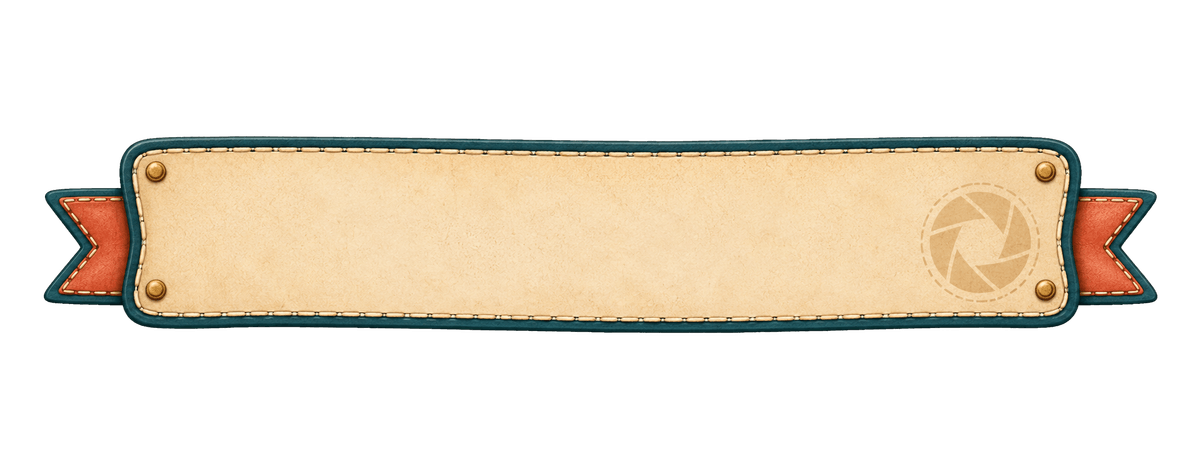
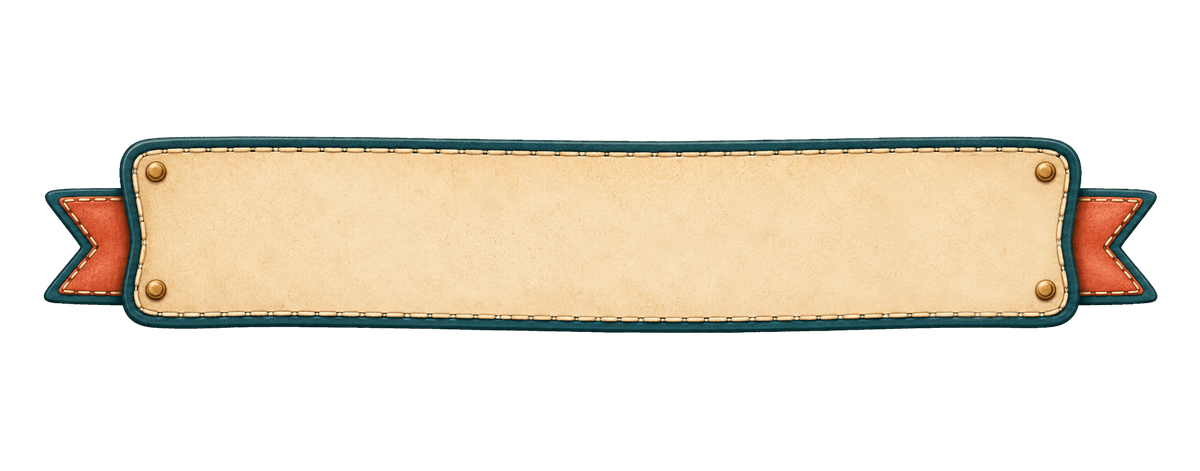
Four bits of desk furniture, and three of them are now named numbers
The instruction ribbon: Joshua removed the aperture watermark and re-exported.
The new file is 2001x786 against the shipped 1200x471, but measured against
each other the framing is identical to a tenth of a percent — 92.8% wide, 41.9%
tall, same padding on all four sides. Same template, more pixels. So it is a
straight resize and the CSS `100% 100%` stretch renders it exactly as before,
minus the logo.

The logo on the teal ribbon: 150 -> 172. The teal is furniture the logo sits
ON, not a box it lives in, and overrun() already turns the difference into the
negative margins that let it break both edges without dragging the bar's height
up. HEADER_LOGO is now the one knob.

The map: the whole atlas moved down 3px -> 16px. That is NOT free height — the
desk must fit one screen with no scrolling — so MAP_CAP subtracts DESK_MAP_DROP
back off the map's own ceiling. The two were exactly the kind of pair that
drifts when only one is edited, so the cap now derives from the constant.

The paperclip: 34px -> 68px, and hooked over the note's top edge instead of
lying flat on it. `top` is measured from the padding box and the airmail border
is 15px thick, so the old top:-15 put the clip's crown level with the paper's
outer edge — every bit of it on the page, which reads as a clip resting on the
note rather than holding it.

Doubling it introduced a problem worth recording: at 68px the clip is as wide as
the note's margin is deep, so a natural one-third overhang landed the clip
[…]

Changed region(s): [[0.7708, 0.3864, 0.8633, 0.6837]]

diff --git a/src/shutterbug-world.jsx b/src/shutterbug-world.jsx
@@ -98,6 +98,20 @@ const HEADER_AVATAR = 112;
 // How tall the teal bar itself is. It is sized to the GREETING — the one thing in
 // it that is really text — and everything larger overruns it on purpose.
 const HEADER_BAR = 58;
+// How tall the logo rides on that bar. It is deliberately far taller than the bar —
+// the ribbon is furniture the logo sits ON, not a box it lives in — and overrun()
+// turns the difference into the negative margins that let it break both edges
+// without dragging the bar's height up with it. Raising this number is the one
+// knob for "let the logo transgress the teal a bit more"; everything else follows.
+const HEADER_LOGO = 172;
+// The paperclip on Uncle Jonah's note. 560x700 of art, so height is width x 1.25.
+const NOTE_CLIP_W = 68, NOTE_CLIP_H = Math.round(NOTE_CLIP_W * 700 / 560);
+const NOTE_CLIP_ON_PAPER = 30;
+// How far below the top of its column the atlas sits. It used to be a bare 3px.
+// This is NOT free height: the desk must fit one screen with no scrolling, so
+// MAP_CAP subtracts it back off the map's own ceiling. Change it here and the cap
+// follows — the two were the sort of pair that drifts when only one is edited.
+const DESK_MAP_DROP = 16;
 // How tall the atlas plate sits on the desk — NOT the aspect the country zoom boxes
 // are built at (that is FRAME_AR, in map-geometry.js). See frameAspect below.
 const DESK_ATLAS_AR = 1.2;
@@ -5626,7 +5640,7 @@ export default function ShutterbugWorld() {
   const stepIdx = phase === "continent" ? 0 : phase === "country" ? 1 : (revealed ? 3 : 2);
   // Cap the atlas so the whole desk (header + map + ribbon) fits one screen with NO
   // scrolling — the game is meant to lock to a fixed window (a desktop app), never
-  // scroll. The 560px cap holds on tall screens; on shorter ones the map shrinks.
+  // scroll. The 620px cap holds on tall screens; on shorter ones the map shrinks.
   //
   // The subtrahend is everything ABOVE and BELOW the map, and it is spelled out
   // rather than left as one magic number because it was wrong: it read 262 while the
@@ -5638,9 +5652,13 @@ export default function ShutterbugWorld() {
   //   18  the bar's margin-bottom
   //  ~238 the ribbon, the phase tracker's last row and the desk's bottom padding
   //
+  //   16  DESK_MAP_DROP, the gap the atlas now sits below the top of its column
+  //
   // Measured, not estimated: with this value a 1280x900 window renders the desk at
   // exactly the viewport height and document.scrollHeight stops exceeding it.
-  const MAP_CAP = "min(calc(100vh - 300px), 620px)";
+  // DESK_MAP_DROP is added rather than baked in, so pushing the map further down
+  // takes the room out of the map instead of out of the bottom of the screen.
+  const MAP_CAP = `min(calc(100vh - ${300 + DESK_MAP_DROP}px), 620px)`;
   // A short live instruction for the bottom ribbon, matched to the current phase.
   // It used to name the vehicle while an overland hop was running; that hop is gone
   // and the naming moved to the arrival card, where the same sentence does the same
@@ -5683,8 +5701,8 @@ export default function ShutterbugWorld() {
           {/* Centred on the ribbon, breaking it equally top and bottom — Joshua's
               call, and the reason the desk now carries real headroom above the bar.
               overrun() derives the margins from HEADER_BAR, so the two can't drift. */}
-          <img src={`${UI}shutterbug-logo.png`} alt="Shutterbug" style={{ height: 150, width: "auto",
-            ...overrun(150), filter: "drop-shadow(0 3px 4px rgba(0,0,0,0.4))" }} />
+          <img src={`${UI}shutterbug-logo.png`} alt="Shutterbug" style={{ height: HEADER_LOGO, width: "auto",
+            ...overrun(HEADER_LOGO), filter: "drop-shadow(0 3px 4px rgba(0,0,0,0.4))" }} />
         </button>
         <div style={{ flex: 1, minWidth: 8 }} />
         {/* Travel-days calendar — centered over the bar, oversized, overruns the teal. */}
@@ -5819,8 +5837,19 @@ export default function ShutterbugWorld() {
             border: "15px solid transparent",
             borderImage: `url("${UI}airmail-paper-texture.png") 84 stretch`,
             boxShadow: "0 4px 0 rgba(16,38,46,0.18)" }}>
+            {/* The clip HOOKS OVER the note's top edge. `top` is measured from the
+                padding box and the airmail border is 15px thick, so top:-15 puts the
+                clip's crown exactly level with the note's outer edge — every bit of it
+                on the paper, which reads as a clip lying on the page rather than
+                holding it.
+                NOTE_CLIP_ON_PAPER is how much of it stays on the sheet, and it is
+                small for a reason: at this size the clip is as wide as the note's
+                margin is deep, so anything more than about a third of it on the paper
+                lands on "A Note from Jonah" and eats the first two letters. Measured
+                in the browser, not guessed. */}
             <img src={`${UI}paperclip.png`} alt="" aria-hidden="true"
-              style={{ position: "absolute", top: -15, left: 16, width: 34, height: "auto", filter: "drop-shadow(0 3px 3px rgba(0,0,0,0.35))" }} />
+              style={{ position: "absolute", top: -(15 + NOTE_CLIP_H - NOTE_CLIP_ON_PAPER), left: 16,
+                width: NOTE_CLIP_W, height: "auto", filter: "drop-shadow(0 3px 3px rgba(0,0,0,0.35))" }} />
             <div style={{ textAlign: "center", marginBottom: 8, color: CORAL }}>
               <span style={{ display: "block", fontFamily: HAND, fontWeight: 700, fontSize: 33, lineHeight: 1.05 }}>A Note from Jonah</span>
               <span style={{ display: "block", fontFamily: "ui-monospace, monospace", fontSize: 18, letterSpacing: "0.1em", fontWeight: 800, whiteSpace: "nowrap" }}>
@@ -5967,7 +5996,11 @@ export default function ShutterbugWorld() {
               with brass corners, a compass rose, and a faint ink-distress wash.
               All the decoration is pointer-events:none so the map stays clickable.
               The wide world map fills the plate; zoomed square maps stay height-capped. */}
-          <div style={{ position: "relative", width: "100%", maxWidth: 940, margin: "3px auto 0", padding: 12, borderRadius: 16,
+          {/* The whole atlas — plate, brass corners and all — sits DESK_MAP_DROP below
+              the top of its column. The desk has to fit one screen with no scrolling,
+              so this is bought back out of MAP_CAP rather than added to the column's
+              height; see the note on MAP_CAP. */}
+          <div style={{ position: "relative", width: "100%", maxWidth: 940, margin: `${DESK_MAP_DROP}px auto 0`, padding: 12, borderRadius: 16,
             border: `4px solid ${OCEAN_DEEP}`, boxShadow: "0 8px 0 rgba(16,38,46,0.22)",
             background: `url("${UI}atlas-paper-texture.png") center / cover, ${PAPER}` }}>
           <div style={{ position: "relative", aspectRatio: frameAspect, width: "100%", maxWidth: "100%", maxHeight: MAP_CAP, margin: "0 auto", borderRadius: 8, overflow: "hidden", border: `2px solid ${INK}` }}>
